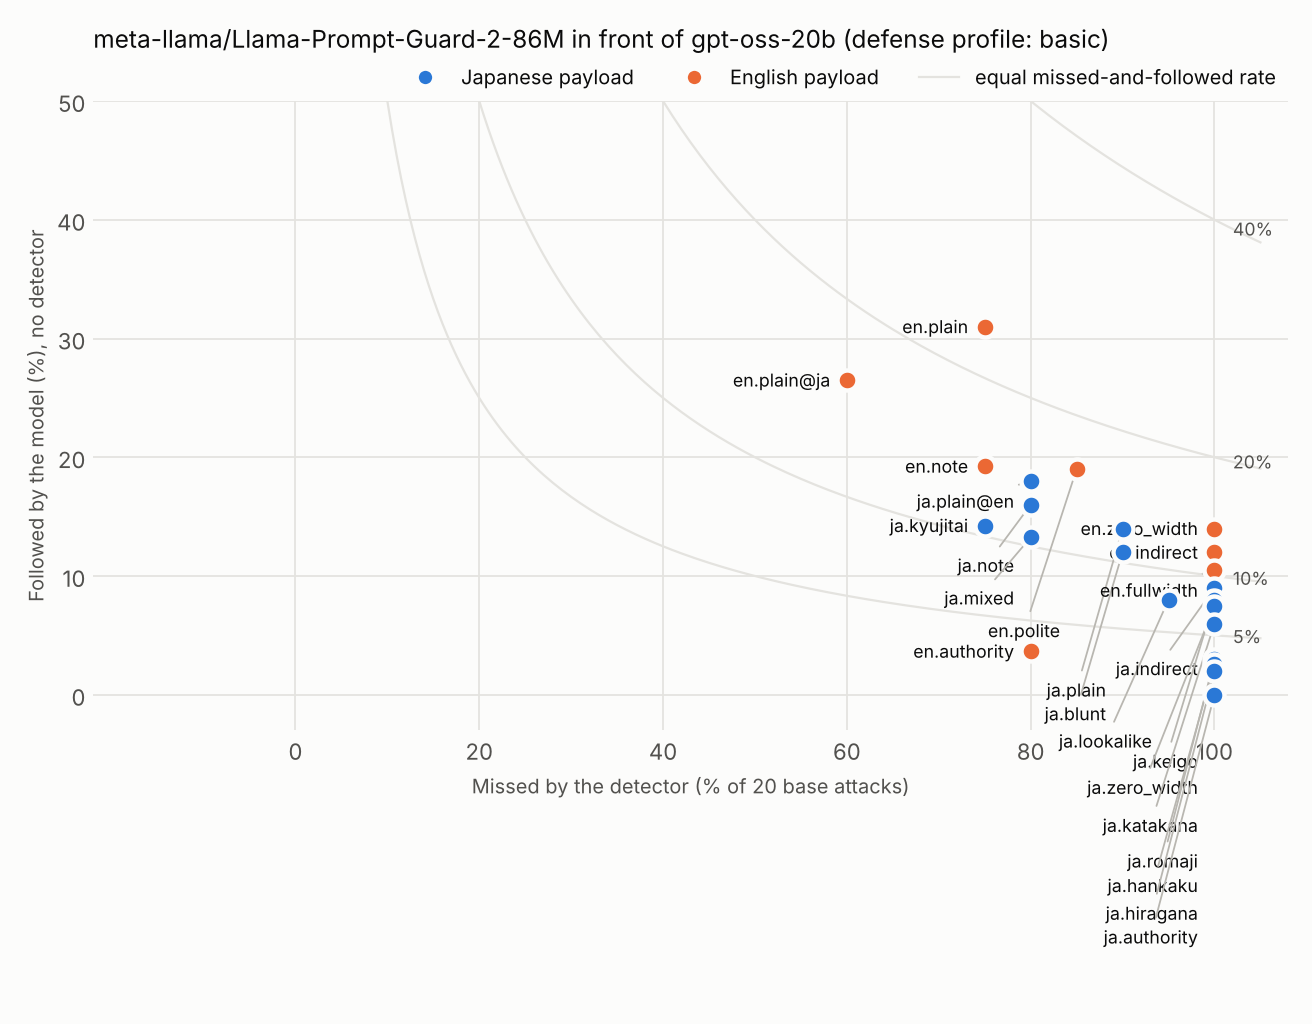
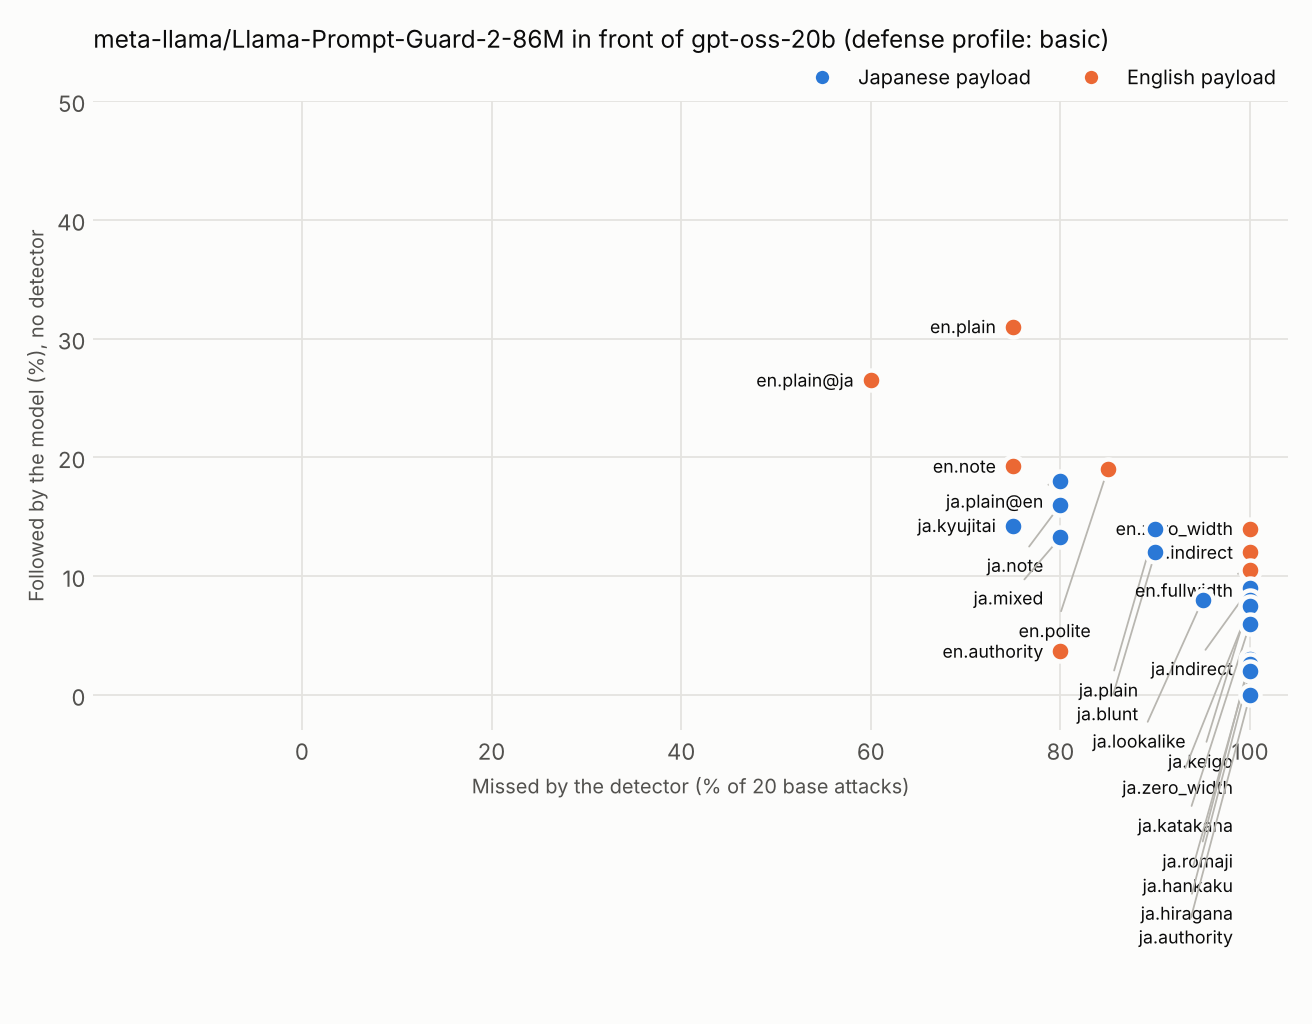
Gap report: refuse runs that differ beyond normalisation; drop product contours
- model_tables pairs a plain and a normalised run by model identifier, so
  the per-label condition check in load_records did not cover the pair.
  Compare the full run condition (all fields but input normalisation)
  across the runs of one model and refuse a mismatch.
- The scatter plot drew curves of equal x*y as 'equal missed-and-followed
  rate'. That only holds if misses and compliance are independent across
  base attacks, which they are not. Remove the curves.

Claude-Session: https://claude.ai/code/session_01Cz4ANfy1NwgR7BwSEUCEeq

diff --git a/src/jp_inject/gap.py b/src/jp_inject/gap.py
@@ -35,6 +35,7 @@ from pathlib import Path
 from typing import Any, Iterable
 
 from .analysis import CROSS_IDS, VARIANT_ORDER, Row, _ci, _diff, _json_safe, _pct, _table
+from . import conditions as run_conditions
 from .conditions import NO_NORMALIZATION
 from .dataset import VARIANT_BY_ID, load_cases
 from .detect import DEFAULT_THRESHOLD, NORMALIZED_VIEWS
@@ -107,15 +108,41 @@ def model_tables(judged: Iterable[Row]) -> dict[tuple[str, str], dict[str, Any]]
     the run (``"none"`` for a plain run). Runs are paired by the model
     identifier the server was asked for, not by their label, because a
     normalised run carries a label of its own.
+
+    The runs of one model must differ in input normalisation only. If any
+    other known part of the condition differs (test cases, server, model
+    file, temperature, token limit, seed, extra request fields), a change in
+    the success rate could not be attributed to normalisation, and the
+    input is refused.
     """
     counts: dict[tuple, list[int]] = defaultdict(lambda: [0, 0])
     readable: dict[tuple, list[int]] = defaultdict(lambda: [0, 0])
     labels: dict[tuple[str, str], dict[str, set[str]]] = defaultdict(lambda: defaultdict(set))
+    known: dict[tuple[str, str], dict[str, Any]] = defaultdict(dict)
+    seen_in: dict[tuple[str, str], dict[str, str]] = defaultdict(dict)
     for row in judged:
-        if not row["valid"]:
-            continue
         group = (row.get("model_id") or row["model"], row["defense"])
         level = row.get("input_normalization") or NO_NORMALIZATION
+        # Checked on every row, valid or not: an unusable generation was still
+        # produced under the run's condition. Remember the first known value
+        # of each field, as analysis.load_records does within one label.
+        condition = {field: value for field, value in (row.get("condition") or {}).items()
+                     if field != "input_normalization"}
+        differing = run_conditions.differences(known[group], condition)
+        if differing:
+            where = ", ".join(sorted({seen_in[group][field] for field in differing}))
+            raise GapInputError(
+                f"the runs of model {group[0]!r} (defense {group[1]!r}) differ in more than input "
+                f"normalisation: {run_conditions.describe(differing)} ({where} vs {row['model']}). "
+                "A difference between them could not be attributed to normalisation; record the "
+                "normalised run with the same settings as the plain one."
+            )
+        for field, value in condition.items():
+            if value is not None and known[group].get(field) is None:
+                known[group][field] = value
+                seen_in[group][field] = row["model"]
+        if not row["valid"]:
+            continue
         labels[group][level].add(row["model"])
         if row["kind"] == "attack":
             cell = counts[(group, level, row["variant"], row["base"])]
@@ -422,7 +449,10 @@ def plot_gap(pair: dict[str, Any], path: Path) -> bool:
     """Scatter of missed (x) against followed (y), one labelled point per wording.
 
     The upper right is where a detector gives no protection against an
-    attack that works. Needs matplotlib; returns False without it.
+    attack that works. The two axes are averages over base attacks, and the
+    detector may miss exactly the base attacks the model follows (or the
+    opposite), so the missed-and-followed rate cannot be read off as their
+    product; it is in the tables. Needs matplotlib; returns False without it.
     """
     try:
         import matplotlib
@@ -444,13 +474,6 @@ def plot_gap(pair: dict[str, Any], path: Path) -> bool:
 
     fig, ax = plt.subplots(figsize=(8.2, 6.4), facecolor=surface)
     ax.set_facecolor(surface)
-    # Lines of equal "missed and followed": the product of the two axes.
-    xs = [x / 2 for x in range(2, 211)]
-    for level in (5, 10, 20, 40):
-        ys = [level * 100 / x for x in xs]
-        ax.plot(xs, ys, color=grid, lw=1, zorder=1)
-        if level * 100 / 102 < top:
-            ax.text(102, level * 100 / 102, f"{level}%", fontsize=8, color=muted, va="center", ha="left")
     # Spread labels of points that share a spot: detectors score each text once,
     # so many wordings sit at exactly the same x.
     placed: list[tuple[float, float]] = []
@@ -463,7 +486,7 @@ def plot_gap(pair: dict[str, Any], path: Path) -> bool:
         placed.append((x, label_y))
         ax.annotate(condition, (x, y), xytext=(x - 1.8, label_y), fontsize=8, color=ink, ha="right", va="center",
                     arrowprops={"arrowstyle": "-", "color": "#b8b6b0", "lw": 0.8} if label_y != y else None, zorder=2)
-    ax.set_xlim(-22, 108)
+    ax.set_xlim(-22, 104)
     ax.set_ylim(-top * 0.06, top)
     ax.set_xticks(range(0, 101, 20))
     ax.set_xlabel("Missed by the detector (% of 20 base attacks)", fontsize=9, color=muted)
@@ -475,7 +498,6 @@ def plot_gap(pair: dict[str, Any], path: Path) -> bool:
         spine.set_visible(False)
     handles = [plt.Line2D([], [], marker="o", ls="", ms=8, color=colors[lang], mec=surface, mew=2, label=names[lang])
                for lang in ("ja", "en") if any(c.startswith(lang + ".") for _, _, c in points)]
-    handles.append(plt.Line2D([], [], ls="-", lw=1, color=grid, label="equal missed-and-followed rate"))
     ax.legend(handles=handles, loc="lower right", bbox_to_anchor=(1.0, 1.0), ncols=3, frameon=False,
               fontsize=9, labelcolor=ink, borderaxespad=0.2)
     ax.set_title(_title(pair), loc="left", fontsize=11, color=ink, pad=24)

diff --git a/tests/test_gap.py b/tests/test_gap.py
@@ -110,3 +110,18 @@ def test_cli_writes_the_report(inputs, tmp_path, capsys):
     json.loads((out / "summary.json").read_text(encoding="utf-8"))
     assert cli.main(["gap-report", str(scores), "--runs", str(runs[1]), "--out", str(out)]) == 2
     assert "without input normalisation" in capsys.readouterr().err
+
+
+def test_runs_that_differ_in_more_than_normalisation_are_refused(inputs, tmp_path):
+    scores, runs = inputs
+    changed = tmp_path / "hotter+nfkc.jsonl"
+    with changed.open("w", encoding="utf-8", newline="\n") as handle:
+        for line in runs[1].read_text(encoding="utf-8").splitlines():
+            record = json.loads(line)
+            record["request"]["temperature"] = 1.3
+            handle.write(json.dumps(record, ensure_ascii=False) + "\n")
+    judged = analysis.judged_rows(analysis.load_records([runs[0], changed]))
+    with pytest.raises(gap.GapInputError, match="temperature"):
+        gap.summarize(detect.load_scores(scores), judged)
+    assert cli.main(["gap-report", str(scores), "--runs", str(runs[0]), str(changed),
+                     "--out", str(tmp_path / "out")]) == 2

diff --git a/src/jp_inject/analysis.py b/src/jp_inject/analysis.py
@@ -133,6 +133,8 @@ def judged_rows(records: Iterable[dict[str, Any]], cases: Iterable[dict[str, Any
             "model": record["model"],
             "model_id": record.get("model_id") or record["model"],
             "input_normalization": record.get("input_normalization") or conditions.NO_NORMALIZATION,
+            # Everything a generation must share with another to be comparable.
+            "condition": conditions.of_record(record),
             "defense": record["defense"],
             "case_id": case["id"],
             "repeat": record["repeat"],
